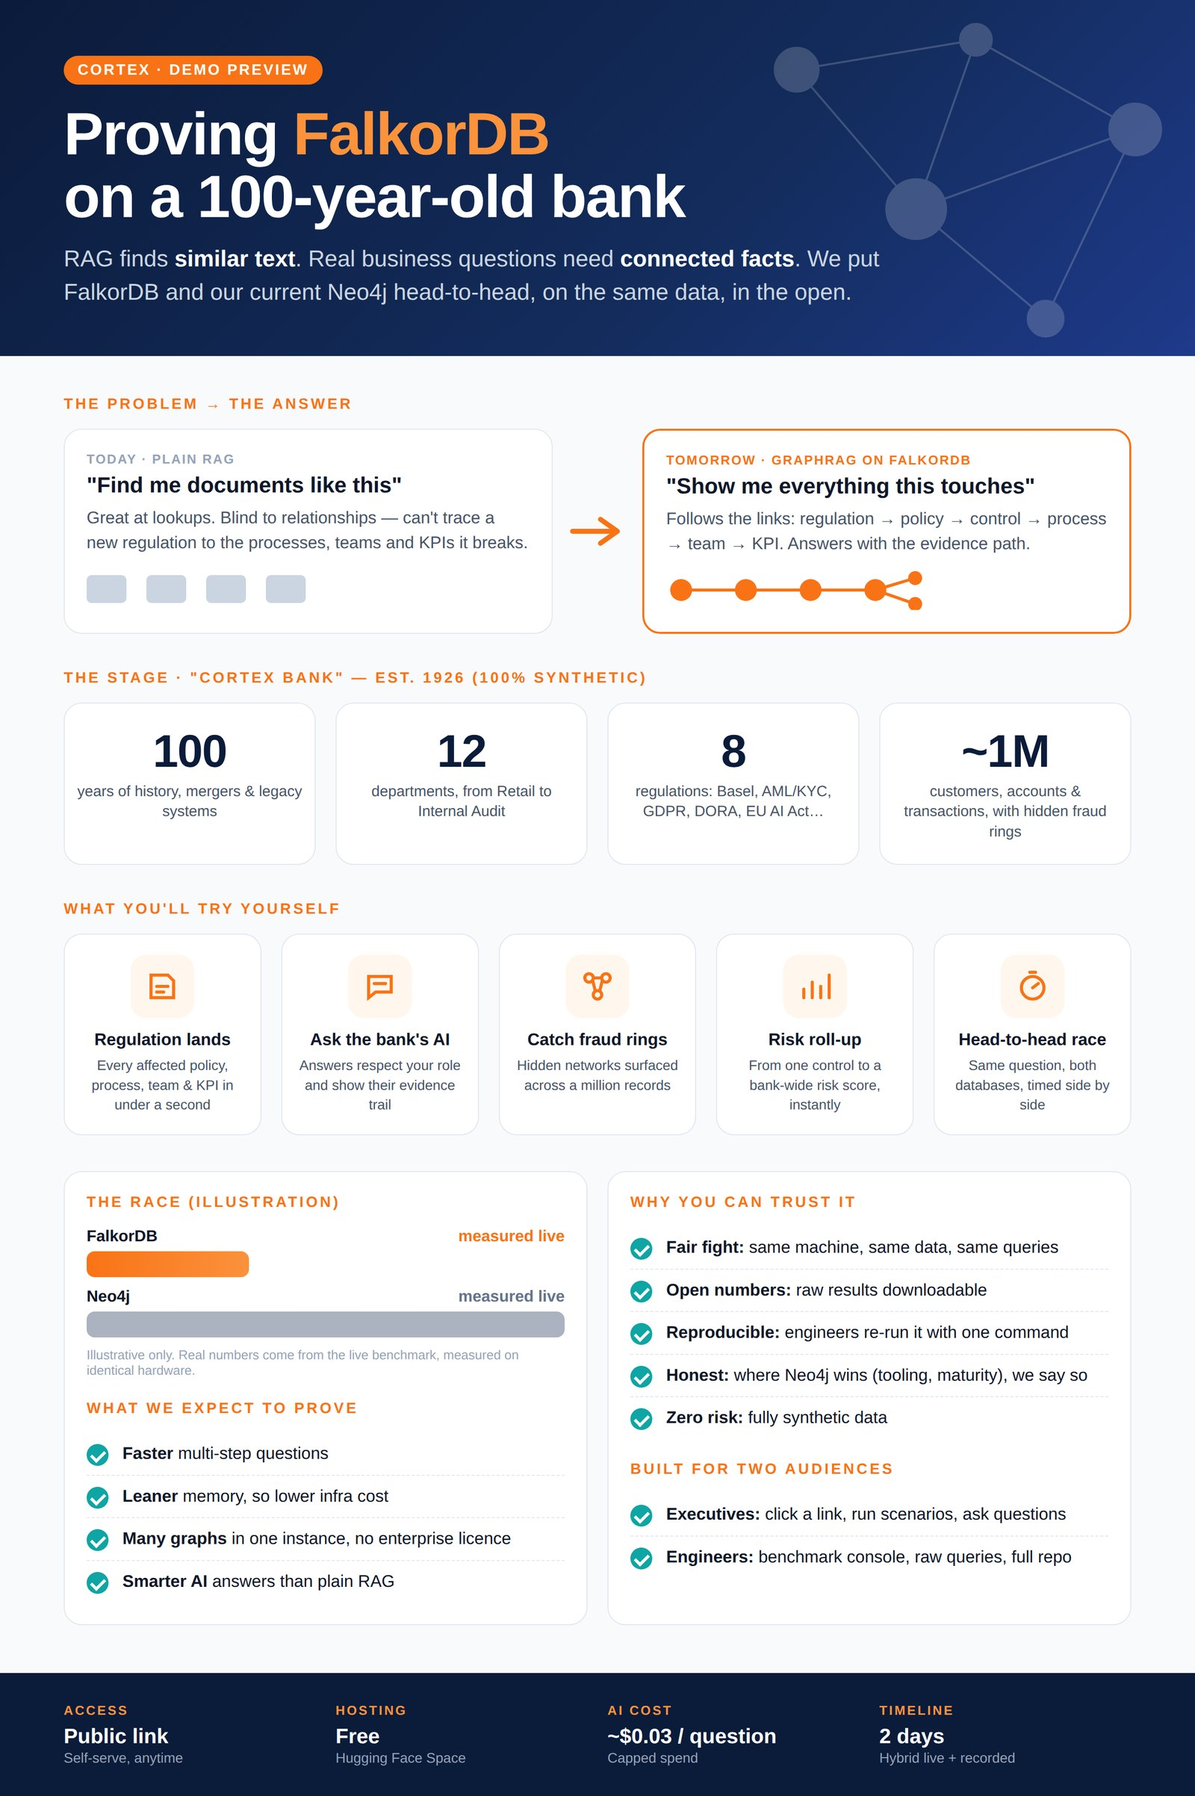
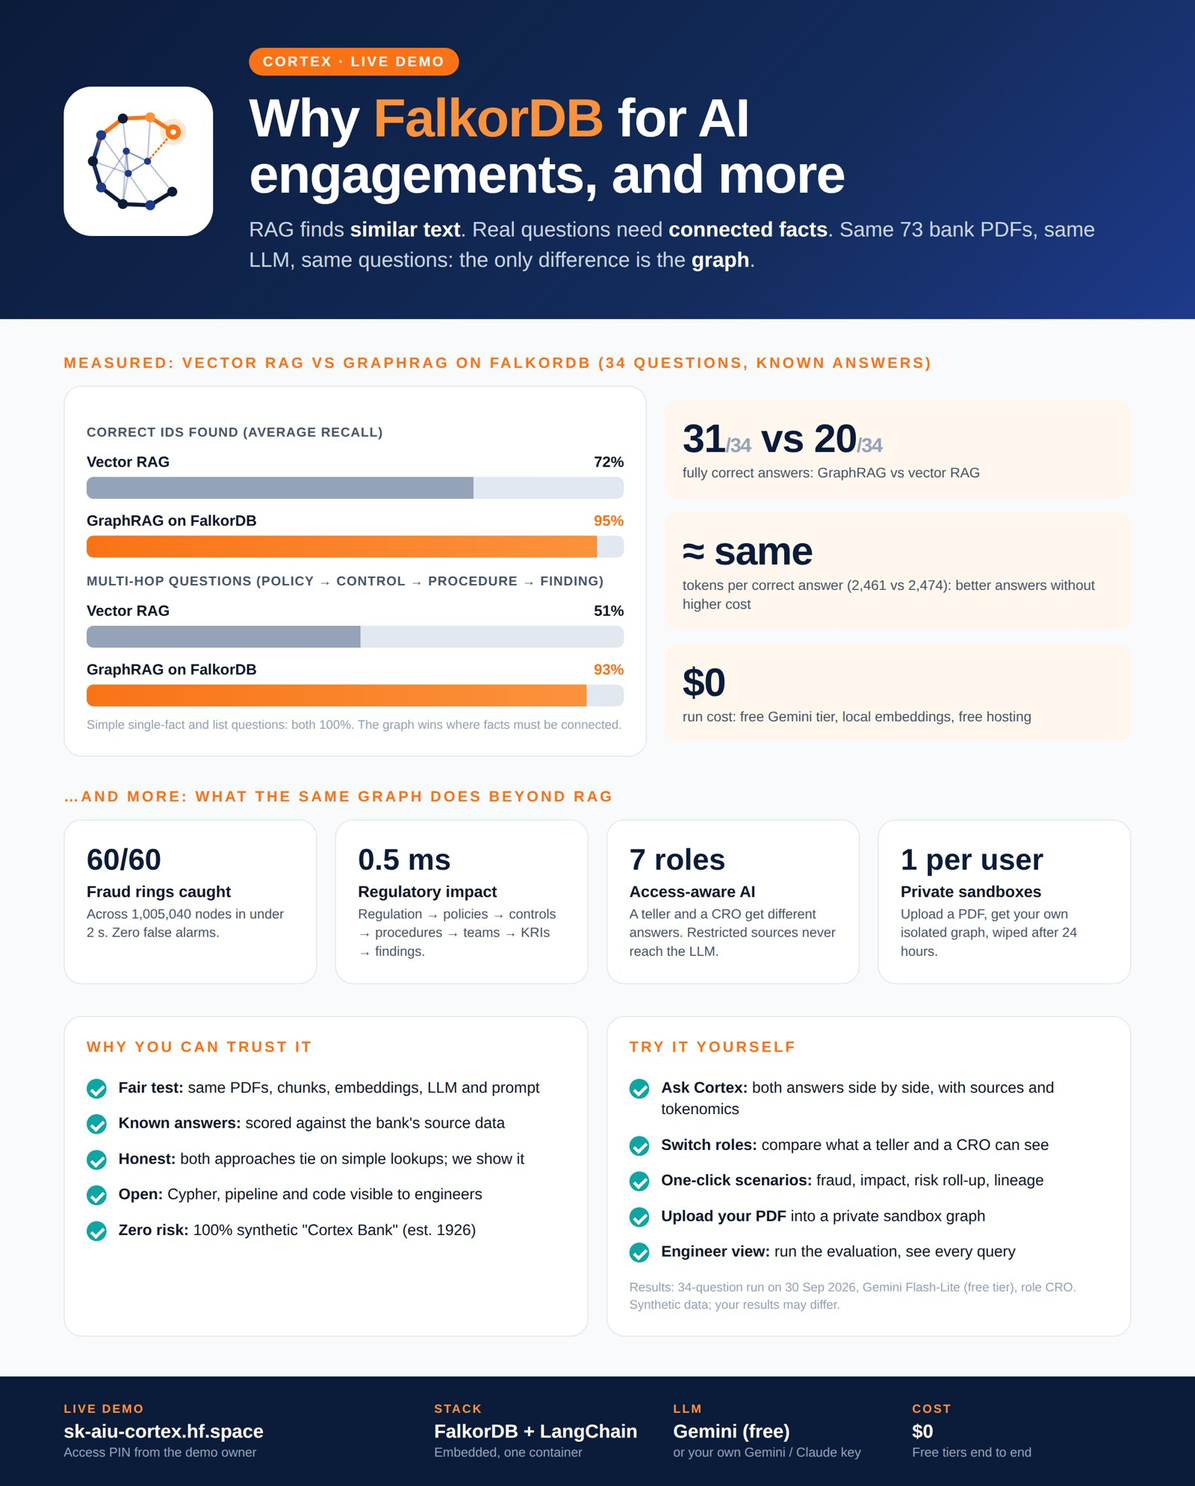
Cortex: one-pager with measured results and live link; demo script
Claude-Session: https://claude.ai/code/session_0129fC1X7mxuoDkHnLWbJ2ZT

diff --git a/cortex/docs/cortex-onepager.html b/cortex/docs/cortex-onepager.html
@@ -1,152 +1,96 @@
 <!doctype html>
 <html><head><meta charset="utf-8">
-<link href="https://fonts.googleapis.com/css2?family=Inter:wght@400;600;800;900&display=swap" rel="stylesheet">
 <style>
-:root{--ink:#0f172a;--sub:#475569;--bg:#f8fafc;--card:#fff;--line:#e2e8f0;--acc:#f97316;--acc2:#fb923c;--navy:#0b1b3a;--teal:#0ea5a4;--neo:#64748b}
+:root{--ink:#0f172a;--sub:#475569;--bg:#f8fafc;--line:#e2e8f0;--or:#F97316;--or2:#fb923c;--navy:#0B1B3A;--blue:#1E3A8A;--teal:#0EA5A4;--grey:#94a3b8}
 *{box-sizing:border-box;margin:0;padding:0}
 body{width:1200px;background:var(--bg);font-family:Inter,"Liberation Sans","DejaVu Sans",sans-serif;color:var(--ink)}
-.hero{background:linear-gradient(135deg,#0b1b3a 0%,#132c5c 60%,#1e3a8a 100%);color:#fff;padding:56px 64px 48px;position:relative;overflow:hidden}
-.hero svg.bg{position:absolute;right:-40px;top:-20px;opacity:.18}
-.tag{display:inline-block;background:var(--acc);color:#fff;font-weight:800;font-size:15px;letter-spacing:.12em;padding:6px 14px;border-radius:999px;text-transform:uppercase}
-h1{font-size:60px;font-weight:900;line-height:1.05;margin:18px 0 14px;letter-spacing:-.02em}
-h1 span{color:var(--acc2)}
-.lead{font-size:23px;line-height:1.45;color:#cbd5e1;max-width:860px}
-.lead b{color:#fff}
-.wrap{padding:40px 64px 48px}
-h2{font-size:15px;letter-spacing:.16em;text-transform:uppercase;color:var(--acc);font-weight:800;margin-bottom:16px}
-.row{display:grid;gap:20px}
-.c2{grid-template-columns:1fr 1fr}.c3{grid-template-columns:repeat(3,1fr)}.c4{grid-template-columns:repeat(4,1fr)}.c5{grid-template-columns:repeat(5,1fr)}
-.card{background:var(--card);border:1px solid var(--line);border-radius:18px;padding:22px}
-.sec{margin-top:36px}
-/* problem vs solution */
-.vs{display:grid;grid-template-columns:1fr 90px 1fr;align-items:stretch}
-.vs .card h3{font-size:22px;font-weight:800;margin:6px 0 8px}
-.vs .card p{font-size:17px;color:var(--sub);line-height:1.45}
-.pill{font-size:13px;font-weight:800;letter-spacing:.1em;text-transform:uppercase}
-.bad .pill{color:#94a3b8}.good{border:2px solid var(--acc)}.good .pill{color:var(--acc)}
-.arrow{display:flex;align-items:center;justify-content:center}
-.mini{display:flex;gap:8px;margin-top:14px;align-items:center}
-/* stats */
-.stat{text-align:center;padding:22px 12px}
-.stat .n{font-size:46px;font-weight:900;color:var(--navy);letter-spacing:-.02em}
-.stat .l{font-size:15px;color:var(--sub);margin-top:4px;line-height:1.35}
-/* scenarios */
-.sc{padding:20px 16px;text-align:center}
-.ic{width:64px;height:64px;border-radius:16px;background:#fff7ed;display:flex;align-items:center;justify-content:center;margin:0 auto 12px}
-.sc h4{font-size:17px;font-weight:800;margin-bottom:6px}
-.sc p{font-size:14px;color:var(--sub);line-height:1.4}
-/* race */
-.race .lbl{display:flex;justify-content:space-between;font-size:16px;font-weight:600;margin:10px 0 6px}
-.bar{height:26px;border-radius:8px}
-.f{background:linear-gradient(90deg,var(--acc),var(--acc2));width:34%}
-.nj{background:var(--neo);width:100%;opacity:.55}
-.note{font-size:13px;color:#94a3b8;margin-top:10px}
-.checks li{list-style:none;font-size:17px;line-height:1.4;padding:9px 0 9px 36px;position:relative;border-bottom:1px dashed var(--line)}
-.checks li:last-child{border:0}
-.checks li:before{content:"";position:absolute;left:0;top:11px;width:22px;height:22px;border-radius:50%;background:var(--teal)}
-.checks li:after{content:"";position:absolute;left:7px;top:15px;width:6px;height:11px;border:solid #fff;border-width:0 3px 3px 0;transform:rotate(45deg)}
-.checks b{color:var(--ink)}
-.foot{background:var(--navy);color:#fff;padding:30px 64px;display:grid;grid-template-columns:repeat(4,1fr);gap:20px}
-.foot .k{font-size:13px;letter-spacing:.14em;text-transform:uppercase;color:var(--acc2);font-weight:800}
-.foot .v{font-size:21px;font-weight:800;margin-top:6px}
-.foot .s{font-size:14px;color:#94a3b8;margin-top:2px}
+.hero{background:linear-gradient(135deg,#0b1b3a 0%,#132c5c 65%,#1e3a8a 100%);color:#fff;padding:48px 64px 44px;display:flex;gap:36px;align-items:center}
+.hero img{width:150px;height:150px;background:#fff;border-radius:28px;padding:10px;flex:none}
+.tag{display:inline-block;background:var(--or);color:#fff;font-weight:800;font-size:14px;letter-spacing:.14em;padding:6px 14px;border-radius:999px;text-transform:uppercase}
+h1{font-size:54px;font-weight:900;line-height:1.05;margin:14px 0 12px;letter-spacing:-.02em}h1 span{color:var(--or2)}
+.lead{font-size:21px;line-height:1.45;color:#cbd5e1}.lead b{color:#fff}
+.wrap{padding:36px 64px 40px}
+h2{font-size:15px;letter-spacing:.16em;text-transform:uppercase;color:var(--or);font-weight:800;margin-bottom:14px}
+.sec{margin-top:32px}.sec:first-child{margin-top:0}
+.row{display:grid;gap:18px}.c2{grid-template-columns:1fr 1fr}.c3{grid-template-columns:repeat(3,1fr)}.c4{grid-template-columns:repeat(4,1fr)}
+.card{background:#fff;border:1px solid var(--line);border-radius:18px;padding:22px}
+.vs .card h3{font-size:21px;font-weight:800;margin:6px 0 8px}.vs .card p{font-size:16px;color:var(--sub);line-height:1.45}
+.pill{font-size:13px;font-weight:800;letter-spacing:.1em;text-transform:uppercase;color:var(--grey)}.good{border:2px solid var(--or)}.good .pill{color:var(--or)}
+.res{display:grid;grid-template-columns:1.25fr 1fr;gap:18px}
+.bars .lbl{display:flex;justify-content:space-between;font-size:15px;font-weight:700;margin:14px 0 6px}.bars .lbl:first-of-type{margin-top:4px}
+.bar{height:22px;border-radius:7px;background:#e2e8f0;overflow:hidden}.bar i{display:block;height:100%}
+.v{background:#94a3b8}.g{background:linear-gradient(90deg,var(--or),var(--or2))}
+.metric{font-size:13px;color:var(--sub);margin-top:16px;font-weight:700;letter-spacing:.06em;text-transform:uppercase}
+.big{display:flex;flex-direction:column;justify-content:center;gap:14px}
+.kpi{background:#fff7ed;border-radius:14px;padding:16px 18px}.kpi .n{font-size:40px;font-weight:900;color:var(--navy);letter-spacing:-.02em}.kpi .n small{font-size:20px;color:var(--grey);font-weight:800}
+.kpi .l{font-size:14px;color:var(--sub);margin-top:2px;line-height:1.35}
+.more .card{text-align:left}.more .n{font-size:30px;font-weight:900;color:var(--navy)}.more .t{font-size:16px;font-weight:800;margin:6px 0 4px}.more .d{font-size:13.5px;color:var(--sub);line-height:1.4}
+.checks li{list-style:none;font-size:15.5px;line-height:1.4;padding:7px 0 7px 32px;position:relative}
+.checks li:before{content:"";position:absolute;left:0;top:9px;width:20px;height:20px;border-radius:50%;background:var(--teal)}
+.checks li:after{content:"";position:absolute;left:7px;top:13px;width:5px;height:10px;border:solid #fff;border-width:0 3px 3px 0;transform:rotate(45deg)}
+.note{font-size:12.5px;color:var(--grey);margin-top:10px;line-height:1.4}
+.foot{background:var(--navy);color:#fff;padding:26px 64px;display:grid;grid-template-columns:1.6fr 1fr 1fr 1fr;gap:20px;align-items:center}
+.foot .k{font-size:12px;letter-spacing:.14em;text-transform:uppercase;color:var(--or2);font-weight:800}.foot .fv{font-size:19px;font-weight:800;margin-top:5px}.foot .s{font-size:13px;color:#94a3b8;margin-top:2px}
 </style></head><body>
-
 <div class="hero">
-  <svg class="bg" width="520" height="420" viewBox="0 0 520 420" fill="none" stroke="#fff" stroke-width="2">
-    <line x1="80" y1="90" x2="260" y2="60"/><line x1="260" y1="60" x2="420" y2="150"/><line x1="80" y1="90" x2="200" y2="230"/>
-    <line x1="200" y1="230" x2="420" y2="150"/><line x1="200" y1="230" x2="330" y2="340"/><line x1="420" y1="150" x2="330" y2="340"/><line x1="260" y1="60" x2="200" y2="230"/>
-    <circle cx="80" cy="90" r="22" fill="#fff"/><circle cx="260" cy="60" r="16" fill="#fff"/><circle cx="420" cy="150" r="26" fill="#fff"/>
-    <circle cx="200" cy="230" r="30" fill="#fff"/><circle cx="330" cy="340" r="18" fill="#fff"/>
-  </svg>
-  <span class="tag">Cortex · Demo Preview</span>
-  <h1>Proving <span>FalkorDB</span><br>on a 100-year-old bank</h1>
-  <p class="lead">RAG finds <b>similar text</b>. Real business questions need <b>connected facts</b>. We put FalkorDB and our current Neo4j head-to-head, on the same data, in the open.</p>
+  <img src="brand/cortex-logo.svg" alt="">
+  <div>
+    <span class="tag">Cortex · Live demo</span>
+    <h1>Why <span>FalkorDB</span> for AI<br>engagements, and more</h1>
+    <p class="lead">RAG finds <b>similar text</b>. Real questions need <b>connected facts</b>. Same 73 bank PDFs, same LLM, same questions: the only difference is the <b>graph</b>.</p>
+  </div>
 </div>
-
 <div class="wrap">
-
-  <div class="sec" style="margin-top:0">
-    <h2>The problem → the answer</h2>
-    <div class="vs">
-      <div class="card bad">
-        <div class="pill">Today · Plain RAG</div>
-        <h3>"Find me documents like this"</h3>
-        <p>Great at lookups. Blind to relationships — can't trace a new regulation to the processes, teams and KPIs it breaks.</p>
-        <div class="mini">
-          <svg width="220" height="40"><g fill="#cbd5e1"><rect x="0" y="6" width="40" height="28" rx="5"/><rect x="60" y="6" width="40" height="28" rx="5"/><rect x="120" y="6" width="40" height="28" rx="5"/><rect x="180" y="6" width="40" height="28" rx="5"/></g></svg>
-        </div>
+  <div class="sec">
+    <h2>Measured: vector RAG vs GraphRAG on FalkorDB (34 questions, known answers)</h2>
+    <div class="res">
+      <div class="card bars">
+        <div class="metric">Correct IDs found (average recall)</div>
+        <div class="lbl"><span>Vector RAG</span><span>72%</span></div><div class="bar"><i class="v" style="width:72%"></i></div>
+        <div class="lbl"><span>GraphRAG on FalkorDB</span><span style="color:var(--or)">95%</span></div><div class="bar"><i class="g" style="width:95%"></i></div>
+        <div class="metric">Multi-hop questions (policy → control → procedure → finding)</div>
+        <div class="lbl"><span>Vector RAG</span><span>51%</span></div><div class="bar"><i class="v" style="width:51%"></i></div>
+        <div class="lbl"><span>GraphRAG on FalkorDB</span><span style="color:var(--or)">93%</span></div><div class="bar"><i class="g" style="width:93%"></i></div>
+        <p class="note">Simple single-fact and list questions: both 100%. The graph wins where facts must be connected.</p>
       </div>
-      <div class="arrow"><svg width="60" height="40"><path d="M5 20 H45 M33 8 L50 20 L33 32" stroke="#f97316" stroke-width="5" fill="none" stroke-linecap="round" stroke-linejoin="round"/></svg></div>
-      <div class="card good">
-        <div class="pill">Tomorrow · GraphRAG on FalkorDB</div>
-        <h3>"Show me everything this touches"</h3>
-        <p>Follows the links: regulation → policy → control → process → team → KPI. Answers with the evidence path.</p>
-        <div class="mini">
-          <svg width="260" height="40"><g stroke="#f97316" stroke-width="3"><line x1="15" y1="20" x2="80" y2="20"/><line x1="80" y1="20" x2="145" y2="20"/><line x1="145" y1="20" x2="210" y2="20"/><line x1="210" y1="20" x2="250" y2="8"/><line x1="210" y1="20" x2="250" y2="34"/></g>
-          <g fill="#f97316"><circle cx="15" cy="20" r="11"/><circle cx="80" cy="20" r="11"/><circle cx="145" cy="20" r="11"/><circle cx="210" cy="20" r="11"/><circle cx="250" cy="8" r="7"/><circle cx="250" cy="34" r="7"/></g></svg>
-        </div>
+      <div class="big">
+        <div class="kpi"><div class="n">31<small>/34</small> vs 20<small>/34</small></div><div class="l">fully correct answers: GraphRAG vs vector RAG</div></div>
+        <div class="kpi"><div class="n">≈ same</div><div class="l">tokens per correct answer (2,461 vs 2,474): better answers without higher cost</div></div>
+        <div class="kpi"><div class="n">$0</div><div class="l">run cost: free Gemini tier, local embeddings, free hosting</div></div>
       </div>
     </div>
   </div>
 
   <div class="sec">
-    <h2>The stage · "Cortex Bank" — est. 1926 (100% synthetic)</h2>
-    <div class="row c4">
-      <div class="card stat"><div class="n">100</div><div class="l">years of history, mergers &amp; legacy systems</div></div>
-      <div class="card stat"><div class="n">12</div><div class="l">departments, from Retail to Internal Audit</div></div>
-      <div class="card stat"><div class="n">8</div><div class="l">regulations: Basel, AML/KYC, GDPR, DORA, EU AI Act…</div></div>
-      <div class="card stat"><div class="n">~1M</div><div class="l">customers, accounts &amp; transactions, with hidden fraud rings</div></div>
-    </div>
-  </div>
-
-  <div class="sec">
-    <h2>What you'll try yourself</h2>
-    <div class="row c5">
-      <div class="card sc"><div class="ic"><svg width="34" height="34" viewBox="0 0 24 24" fill="none" stroke="#f97316" stroke-width="2.2" stroke-linecap="round"><path d="M4 4h12l4 4v12H4z"/><path d="M8 12h8M8 16h5"/></svg></div><h4>Regulation lands</h4><p>Every affected policy, process, team &amp; KPI in under a second</p></div>
-      <div class="card sc"><div class="ic"><svg width="34" height="34" viewBox="0 0 24 24" fill="none" stroke="#f97316" stroke-width="2.2" stroke-linecap="round"><path d="M4 5h16v11H9l-5 4z"/><path d="M8 10h8"/></svg></div><h4>Ask the bank's AI</h4><p>Answers respect your role and show their evidence trail</p></div>
-      <div class="card sc"><div class="ic"><svg width="34" height="34" viewBox="0 0 24 24" fill="none" stroke="#f97316" stroke-width="2.2"><circle cx="6" cy="6" r="3"/><circle cx="18" cy="6" r="3"/><circle cx="12" cy="18" r="3"/><path d="M8.5 7.5l2 8M15.5 7.5l-2 8M9 6h6"/></svg></div><h4>Catch fraud rings</h4><p>Hidden networks surfaced across a million records</p></div>
-      <div class="card sc"><div class="ic"><svg width="34" height="34" viewBox="0 0 24 24" fill="none" stroke="#f97316" stroke-width="2.2" stroke-linecap="round"><path d="M4 20V14M10 20V9M16 20V12M22 20V4"/></svg></div><h4>Risk roll-up</h4><p>From one control to a bank-wide risk score, instantly</p></div>
-      <div class="card sc"><div class="ic"><svg width="34" height="34" viewBox="0 0 24 24" fill="none" stroke="#f97316" stroke-width="2.2" stroke-linecap="round"><circle cx="12" cy="13" r="8"/><path d="M12 13l4-3M10 2h4"/></svg></div><h4>Head-to-head race</h4><p>Same question, both databases, timed side by side</p></div>
+    <h2>…and more: what the same graph does beyond RAG</h2>
+    <div class="row c4 more">
+      <div class="card"><div class="n">60/60</div><div class="t">Fraud rings caught</div><div class="d">Across 1,005,040 nodes in under 2 s. Zero false alarms.</div></div>
+      <div class="card"><div class="n">0.5 ms</div><div class="t">Regulatory impact</div><div class="d">Regulation → policies → controls → procedures → teams → KRIs → findings.</div></div>
+      <div class="card"><div class="n">7 roles</div><div class="t">Access-aware AI</div><div class="d">A teller and a CRO get different answers. Restricted sources never reach the LLM.</div></div>
+      <div class="card"><div class="n">1 per user</div><div class="t">Private sandboxes</div><div class="d">Upload a PDF, get your own isolated graph, wiped after 24 hours.</div></div>
     </div>
   </div>
 
   <div class="sec row c2">
-    <div class="card race">
-      <h2>The race (illustration)</h2>
-      <div class="lbl"><span>FalkorDB</span><span style="color:#f97316">measured live</span></div><div class="bar f"></div>
-      <div class="lbl"><span>Neo4j</span><span style="color:#64748b">measured live</span></div><div class="bar nj"></div>
-      <div class="note">Illustrative only. Real numbers come from the live benchmark, measured on identical hardware.</div>
-      <h2 style="margin-top:22px">What we expect to prove</h2>
-      <ul class="checks">
-        <li><b>Faster</b> multi-step questions</li>
-        <li><b>Leaner</b> memory, so lower infra cost</li>
-        <li><b>Many graphs</b> in one instance, no enterprise licence</li>
-        <li><b>Smarter AI</b> answers than plain RAG</li>
-      </ul>
-    </div>
-    <div class="card">
-      <h2>Why you can trust it</h2>
-      <ul class="checks">
-        <li><b>Fair fight:</b> same machine, same data, same queries</li>
-        <li><b>Open numbers:</b> raw results downloadable</li>
-        <li><b>Reproducible:</b> engineers re-run it with one command</li>
-        <li><b>Honest:</b> where Neo4j wins (tooling, maturity), we say so</li>
-        <li><b>Zero risk:</b> fully synthetic data</li>
-      </ul>
-      <h2 style="margin-top:22px">Built for two audiences</h2>
-      <ul class="checks">
-        <li><b>Executives:</b> click a link, run scenarios, ask questions</li>
-        <li><b>Engineers:</b> benchmark console, raw queries, full repo</li>
-      </ul>
-    </div>
+    <div class="card"><h2>Why you can trust it</h2><ul class="checks">
+      <li><b>Fair test:</b> same PDFs, chunks, embeddings, LLM and prompt</li>
+      <li><b>Known answers:</b> scored against the bank's source data</li>
+      <li><b>Honest:</b> both approaches tie on simple lookups; we show it</li>
+      <li><b>Open:</b> Cypher, pipeline and code visible to engineers</li>
+      <li><b>Zero risk:</b> 100% synthetic "Cortex Bank" (est. 1926)</li></ul></div>
+    <div class="card"><h2>Try it yourself</h2><ul class="checks">
+      <li><b>Ask Cortex:</b> both answers side by side, with sources and tokenomics</li>
+      <li><b>Switch roles:</b> compare what a teller and a CRO can see</li>
+      <li><b>One-click scenarios:</b> fraud, impact, risk roll-up, lineage</li>
+      <li><b>Upload your PDF</b> into a private sandbox graph</li>
+      <li><b>Engineer view:</b> run the evaluation, see every query</li></ul>
+      <p class="note">Results: 34-question run on 30 Sep 2026, Gemini Flash-Lite (free tier), role CRO. Synthetic data; your results may differ.</p></div>
   </div>
 </div>
-
 <div class="foot">
-  <div><div class="k">Access</div><div class="v">Public link</div><div class="s">Self-serve, anytime</div></div>
-  <div><div class="k">Hosting</div><div class="v">Free</div><div class="s">Hugging Face Space</div></div>
-  <div><div class="k">AI cost</div><div class="v">~$0.03 / question</div><div class="s">Capped spend</div></div>
-  <div><div class="k">Timeline</div><div class="v">2 days</div><div class="s">Hybrid live + recorded</div></div>
+  <div><div class="k">Live demo</div><div class="fv">sk-aiu-cortex.hf.space</div><div class="s">Access PIN from the demo owner</div></div>
+  <div><div class="k">Stack</div><div class="fv">FalkorDB + LangChain</div><div class="s">Embedded, one container</div></div>
+  <div><div class="k">LLM</div><div class="fv">Gemini (free)</div><div class="s">or your own Gemini / Claude key</div></div>
+  <div><div class="k">Cost</div><div class="fv">$0</div><div class="s">Free tiers end to end</div></div>
 </div>
 </body></html>

diff --git a/cortex/docs/DEMO_SCRIPT.md b/cortex/docs/DEMO_SCRIPT.md
@@ -1,0 +1,42 @@
+# Cortex Demo Script
+
+**Link:** https://sk-aiu-cortex.hf.space · **Access PIN:** from the demo owner · **Format:** live walkthrough, with a recording as backup
+
+## Before you start (10 minutes ahead)
+1. Open the link. If you see "warming up", wait 1-3 minutes (the Space sleeps when idle).
+2. **Settings → Access PIN → Unlock.** The header should show "Shared: 20 of 20 left today".
+3. Ask sample question 1 once. The answer is then cached, so it's instant and $0 during the demo.
+4. Keep a second tab on **Scenarios** as a fallback if the LLM is busy.
+
+## Executive track (10 minutes)
+| Min | Screen | Say | Show |
+|---|---|---|---|
+| 0-1 | Overview | "Most AI here finds *similar text*. Real questions need *connected facts*. Same 73 PDFs, same model; the only difference is the graph." | Header stats: 1M+ nodes, 0.5 ms query |
+| 1-4 | Ask Cortex, question 1 (EU AI Act) | "Left is today's RAG. Right is GraphRAG on FalkorDB." | GraphRAG lists all 6 controls, 4 procedures and 2 open findings. Point at the sources and the tokenomics strip |
+| 4-5 | Engineer view → Evaluation | "We measured it on 34 questions with known answers." | **95% vs 72%** recall · **31 vs 20** fully correct · multi-hop **93% vs 51%** · same tokens per correct answer |
+| 5-6 | Compare two roles (CRO vs Branch Teller) | "Security is in the graph. The teller never sees audit findings; the model never even receives them." | "N sources withheld" |
+| 6-8 | Scenarios → Fraud rings (role: Compliance) | "Same database, beyond RAG: 60 hidden fraud rings in a million records, in under 2 seconds, no false alarms." | Then switch to Branch Teller: access denied |
+| 8-9 | Scenarios → Regulatory impact / Risk roll-up | "A new regulation lands: here's everything it touches, instantly. And the bank's risk score, from one control up to the board." | Impact table; bank score 60/100 |
+| 9-10 | Close | "Free to run, open to inspect, and you can try it yourself today." | One-pager with the link |
+
+## Engineer track (5 extra minutes)
+1. **Engineer view → Pipeline:** LangChain loader and splitter, local embeddings, and pattern extraction (295/295 relationships correct, 0 tokens).
+2. **Last queries:** the exact Cypher for vector and GraphRAG retrieval.
+3. **Performance panel:** FalkorDB execution times on the 1M-node graph.
+4. **Upload:** drop a PDF and ask about it. It goes into a private sandbox graph that's wiped after 24 hours.
+5. **Code:** `github.com/Cosmius-SK/AI/tree/main/cortex`. No Docker needed: `python app.py` runs it all locally.
+
+## Likely questions
+| Question | Answer |
+|---|---|
+| "Isn't this rigged for the graph?" | Same PDFs, chunks, embeddings, LLM and prompt. Simple questions tie at 100%, and we show that. |
+| "Would Neo4j do the same?" | Out of scope for this demo; a comparison write-up can follow. |
+| "Our documents don't have IDs." | Uploads use LLM extraction; try it on the Upload tab. |
+| "What does it cost?" | $0 here (free tiers). Tokens per correct answer are about the same as RAG. |
+| "Is the data real?" | No. Cortex Bank is 100% synthetic. |
+| "Licensing?" | FalkorDB is SSPL; check with Legal before production use. |
+
+## Recording checklist (backup video)
+- 1080p browser window, notifications off, PIN already unlocked, questions pre-cached.
+- Record both tracks separately (about 10 and 5 minutes), following the tables above.
+- End on the one-pager (`docs/cortex-onepager.png`).
